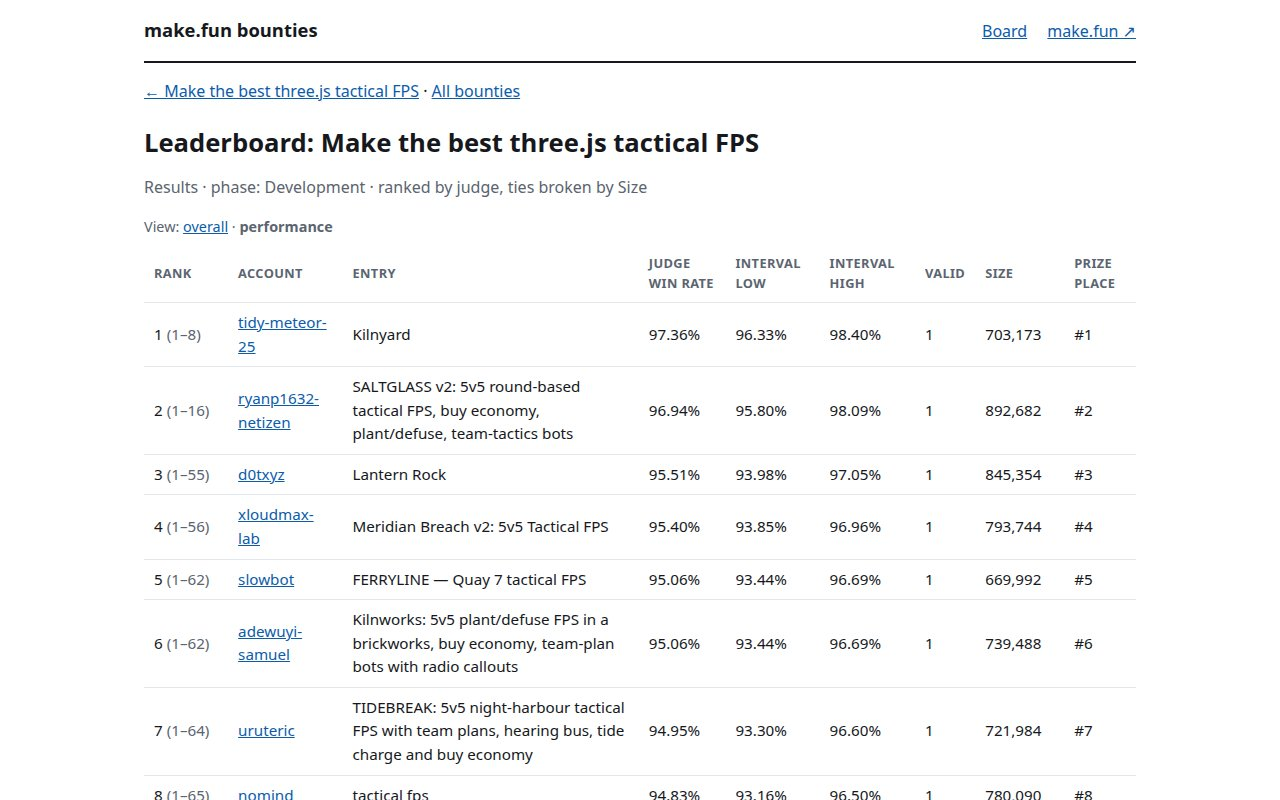
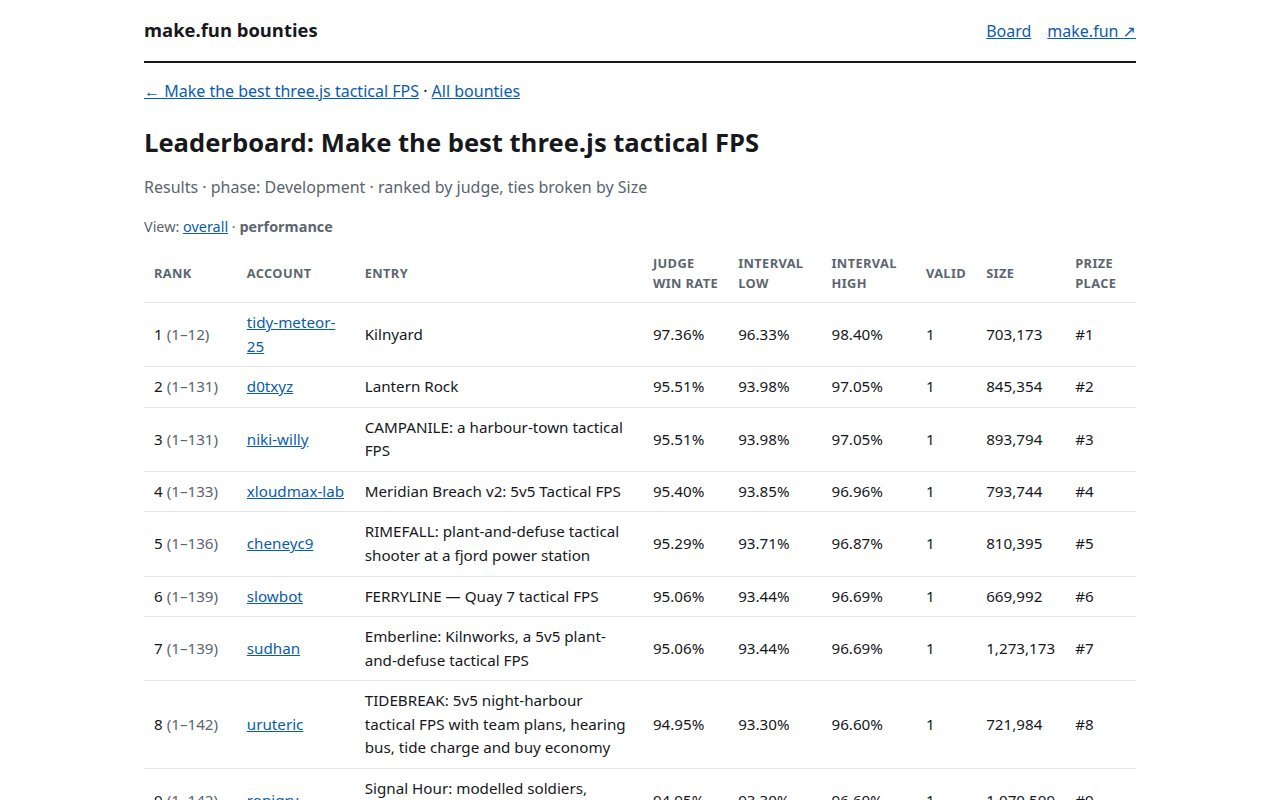
Round 5: rewrite main.ts and re-take screenshots in recorded sessions

diff --git a/main.ts b/main.ts
@@ -1,35 +1,37 @@
-// A working makefun-frontend-01 entry (Node 22, standard library only): the frontend is this directory's app/
-// folder, plain static files a browser opens at app/index.html (ES modules, CSS, no build step), reading make.fun's
-// public API at https://make.fun/api. The program hands it in: it copies app/ and screenshots/ from beside this file
-// to /output and writes /output/dossier.json, the summary the judge reads (your screenshots, the first load's files
-// and bytes, and your source), with the vendored make.fun library. Leave vendor/makefun-frontend.ts as it is: the
-// scorer requires dossier.json to be byte for byte what its own copy writes.
-//
-// A starting point, not a winner: a plain board of open bounties and a page for each. Build your frontend in app/
-// (a leaderboard, profiles, speed, ease of use), put 3 PNG or JPEG screenshots of it running on live data in
-// screenshots/ (the first by name is the cover; shots.json says which views this starter's were taken of), and run it.
-//
-// Serve it locally with `node serve.ts`, then open http://localhost:8080.
-// Outside the grader's container, MAKEFUN_OUTPUT_DIR stands in for /output:
-//   mkdir -p out && MAKEFUN_OUTPUT_DIR=out node main.ts
-
 import { cpSync, existsSync, mkdirSync, writeFileSync } from 'node:fs';
 import { join } from 'node:path';
 import { fileURLToPath } from 'node:url';
 import { buildDossier } from './vendor/makefun-frontend.ts';
 
-const here = fileURLToPath(new URL('.', import.meta.url));
-const out = process.env.MAKEFUN_OUTPUT_DIR ?? '/output';
+const projectRoot = fileURLToPath(new URL('.', import.meta.url));
+const destination = process.env.MAKEFUN_OUTPUT_DIR || '/output';
 
-mkdirSync(out, { recursive: true });
-cpSync(join(here, 'app'), join(out, 'app'), { recursive: true });
-mkdirSync(join(out, 'screenshots'), { recursive: true });
-if (existsSync(join(here, 'screenshots'))) cpSync(join(here, 'screenshots'), join(out, 'screenshots'), { recursive: true });
+function copyTree(name) {
+  cpSync(join(projectRoot, name), join(destination, name), { recursive: true });
+}
 
-// The scorer's own caps (reference/gate.json): only text_max_bytes shapes the bytes; the others refuse an entry the
-// scorer would refuse (more than 3 screenshots or one over 256 KiB; more than 993 files and directories in app/ or
-// 16 MiB of app files: app/ counts beside /output's own 1000-entry cap, its screenshots/ and dossier.json).
-writeFileSync(
-  join(out, 'dossier.json'),
-  buildDossier(out, { text_max_bytes: 163840, screenshots: { max: 3, max_bytes: 262144 }, app_max_files: 993, app_max_bytes: 16777216 }),
-);
+function prepareOutput() {
+  mkdirSync(destination, { recursive: true });
+  copyTree('app');
+
+  const captures = join(destination, 'screenshots');
+  mkdirSync(captures, { recursive: true });
+  const suppliedCaptures = join(projectRoot, 'screenshots');
+  if (existsSync(suppliedCaptures)) {
+    cpSync(suppliedCaptures, captures, { recursive: true });
+  }
+}
+
+function writeEntryRecord() {
+  const limits = {
+    text_max_bytes: 163840,
+    screenshots: { max: 3, max_bytes: 262144 },
+    app_max_files: 993,
+    app_max_bytes: 16777216,
+  };
+  const dossierPath = join(destination, 'dossier.json');
+  writeFileSync(dossierPath, buildDossier(destination, limits));
+}
+
+prepareOutput();
+writeEntryRecord();
